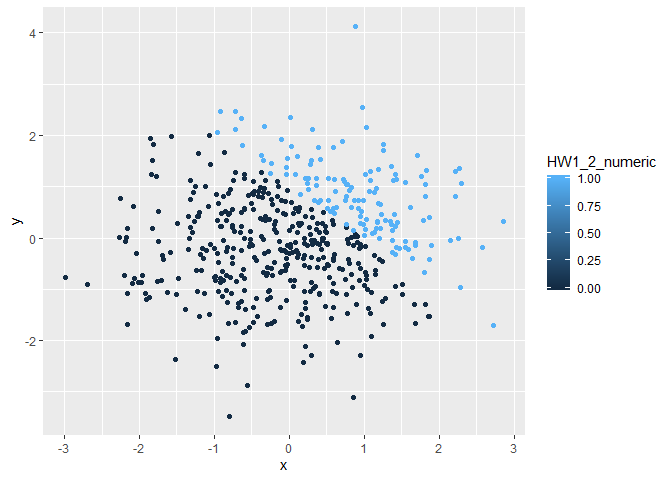
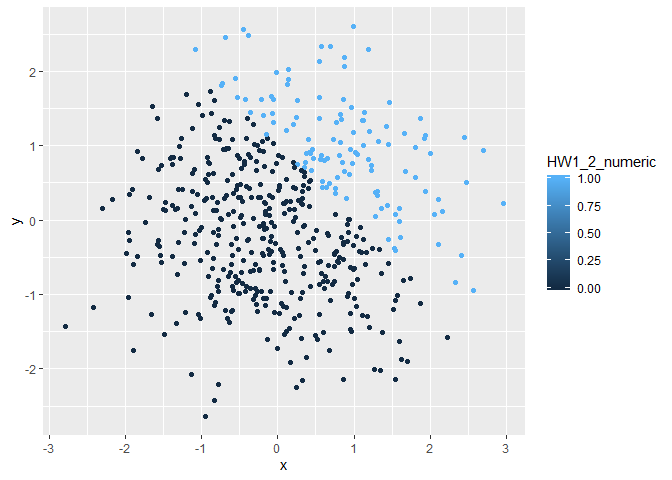
reviewed assignment

diff --git a/p8105_hw1_kpc2124.md b/p8105_hw1_kpc2124.md
@@ -22,9 +22,9 @@ HW1_1_df = tibble(
 
 ``` r
 mean(pull(HW1_1_df, HW1_1_samp))
-## [1] -0.5840163
+## [1] 0.6080542
 mean(pull(HW1_1_df, HW1_1_samp_pos))
-## [1] 0.375
+## [1] 0.75
 mean(pull(HW1_1_df, HW1_1_char))
 ## Warning in mean.default(pull(HW1_1_df, HW1_1_char)): argument is not
 ## numeric or logical: returning NA
@@ -59,21 +59,24 @@ corresponded to the levels rather than the vector itself.
 **Creating a new code chunk to manipulate variables from the dataframe**
 
 ``` r
-HW1_1_samp_num = as.numeric(pull(HW1_1_df, HW1_1_samp_pos))
-HW1_1_samp_num * pull(HW1_1_df,HW1_1_samp)
-## [1] 0.7506088 0.8069372 0.0000000 0.7346191 0.0000000 0.0000000 0.0000000
+HW1_1_rsamp = pull(HW1_1_df,HW1_1_samp)
+HW1_1_rsamp_pos = pull(HW1_1_df,HW1_1_samp_pos)
+
+HW1_1_samp_num = as.numeric(HW1_1_rsamp_pos)
+HW1_1_samp_num * HW1_1_rsamp
+## [1] 0.0000000 0.8303583 1.1949264 2.3693581 1.6931128 0.5411691 0.7197423
 ## [8] 0.0000000
 
-HW1_1_samp_factor = as.factor(pull(HW1_1_df,HW1_1_samp_pos))
-HW1_1_samp_factor * pull(HW1_1_df,HW1_1_samp)
-## Warning in Ops.factor(HW1_1_samp_factor, pull(HW1_1_df, HW1_1_samp)): '*'
-## not meaningful for factors
+HW1_1_samp_factor = as.factor(HW1_1_rsamp_pos)
+HW1_1_samp_factor * HW1_1_rsamp
+## Warning in Ops.factor(HW1_1_samp_factor, HW1_1_rsamp): '*' not meaningful
+## for factors
 ## [1] NA NA NA NA NA NA NA NA
 
 HW1_1_samp_num2 = as.numeric(HW1_1_samp_factor)
-HW1_1_samp_num2 * pull(HW1_1_df,HW1_1_samp)
-## [1]  1.5012177  1.6138744 -2.0064706  1.4692381 -1.5459547 -0.9751685
-## [7] -1.8543873 -0.5823146
+HW1_1_samp_num2 * HW1_1_rsamp
+## [1] -0.4462862  1.6607166  2.3898528  4.7387163  3.3862255  1.0823383
+## [7]  1.4394846 -2.0379474
 ```
 
 # Problem 2
@@ -91,8 +94,8 @@ HW1_2_df = tibble(
 ```
 
 The size of the data set `HW1_2_df` is 2500. The mean of `x` is
-0.0450598. The median of `x` is 0.0766929. The standard deviation of `x`
-is 1.0190575. The proportion of cases for which `x + y > 1` is 0.268.
+0.032417. The median of `x` is -0.0510727. The standard deviation of `x`
+is 0.9754546. The proportion of cases for which `x + y > 1` is 0.234.
 
 **Scatterplots**
 
